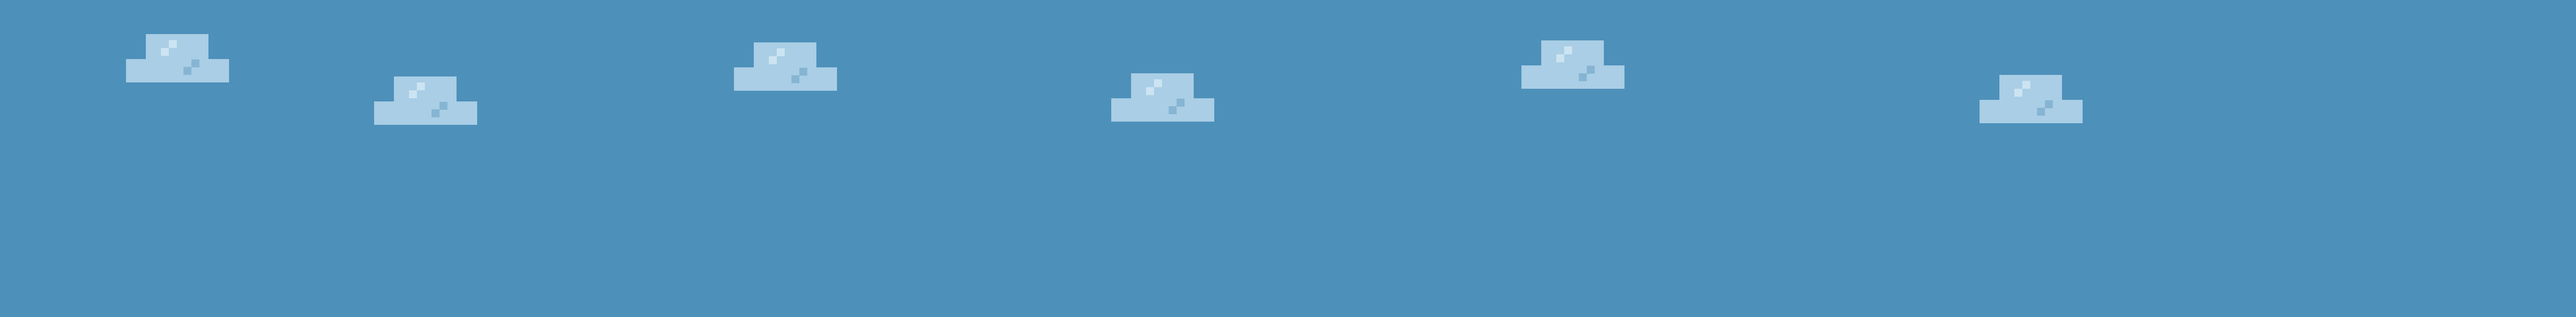
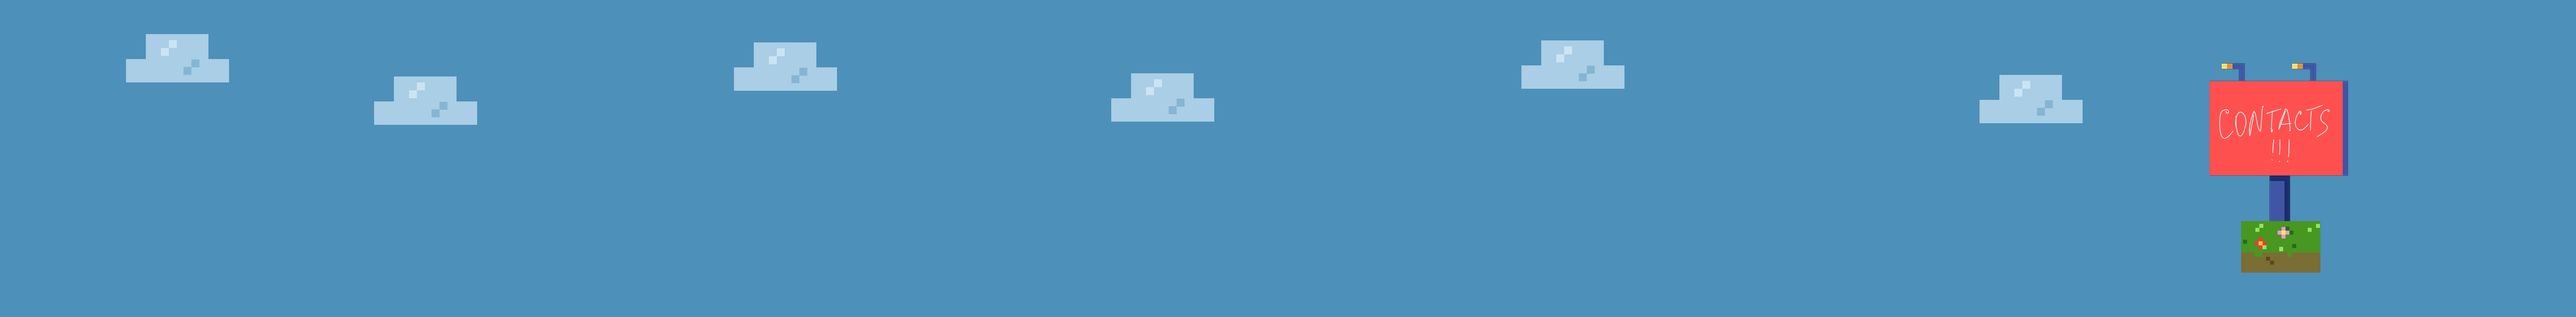
fixed contacts box

Changed region(s): [[0.8432, 0.25, 0.9369, 0.875], [0.8432, 0.1875, 0.9057, 0.2188]]

diff --git a/src/App.js b/src/App.js
@@ -215,7 +215,7 @@ const App = () => {
       new GenericObject({ x: -1, y: window.innerHeight - (platformImage.height + treeImage.height), image: treeImage }),
       new GenericObject({ x: platformImage.width * 2, y: window.innerHeight - (platformImage.height + treeImage.height), image: treeImage }),
       new GenericObject({ x: platformImage.width * 6, y: window.innerHeight - (platformImage.height + treeImage.height), image: treeImage }),
-      new GenericObject({ x: platformImage.width * 9+250, y: window.innerHeight - (platformImage.height + contactsImage.height), image: contactsImage}),
+      // new GenericObject({ x: platformImage.width * 9+250, y: window.innerHeight - (platformImage.height + contactsImage.height), image: contactsImage}),
 
     ];
       contactsBoxPosition = { x: platformImage.width *3, y: window.innerHeight - platformImage.height, width: contactsImage.width, height: contactsImage.height };
